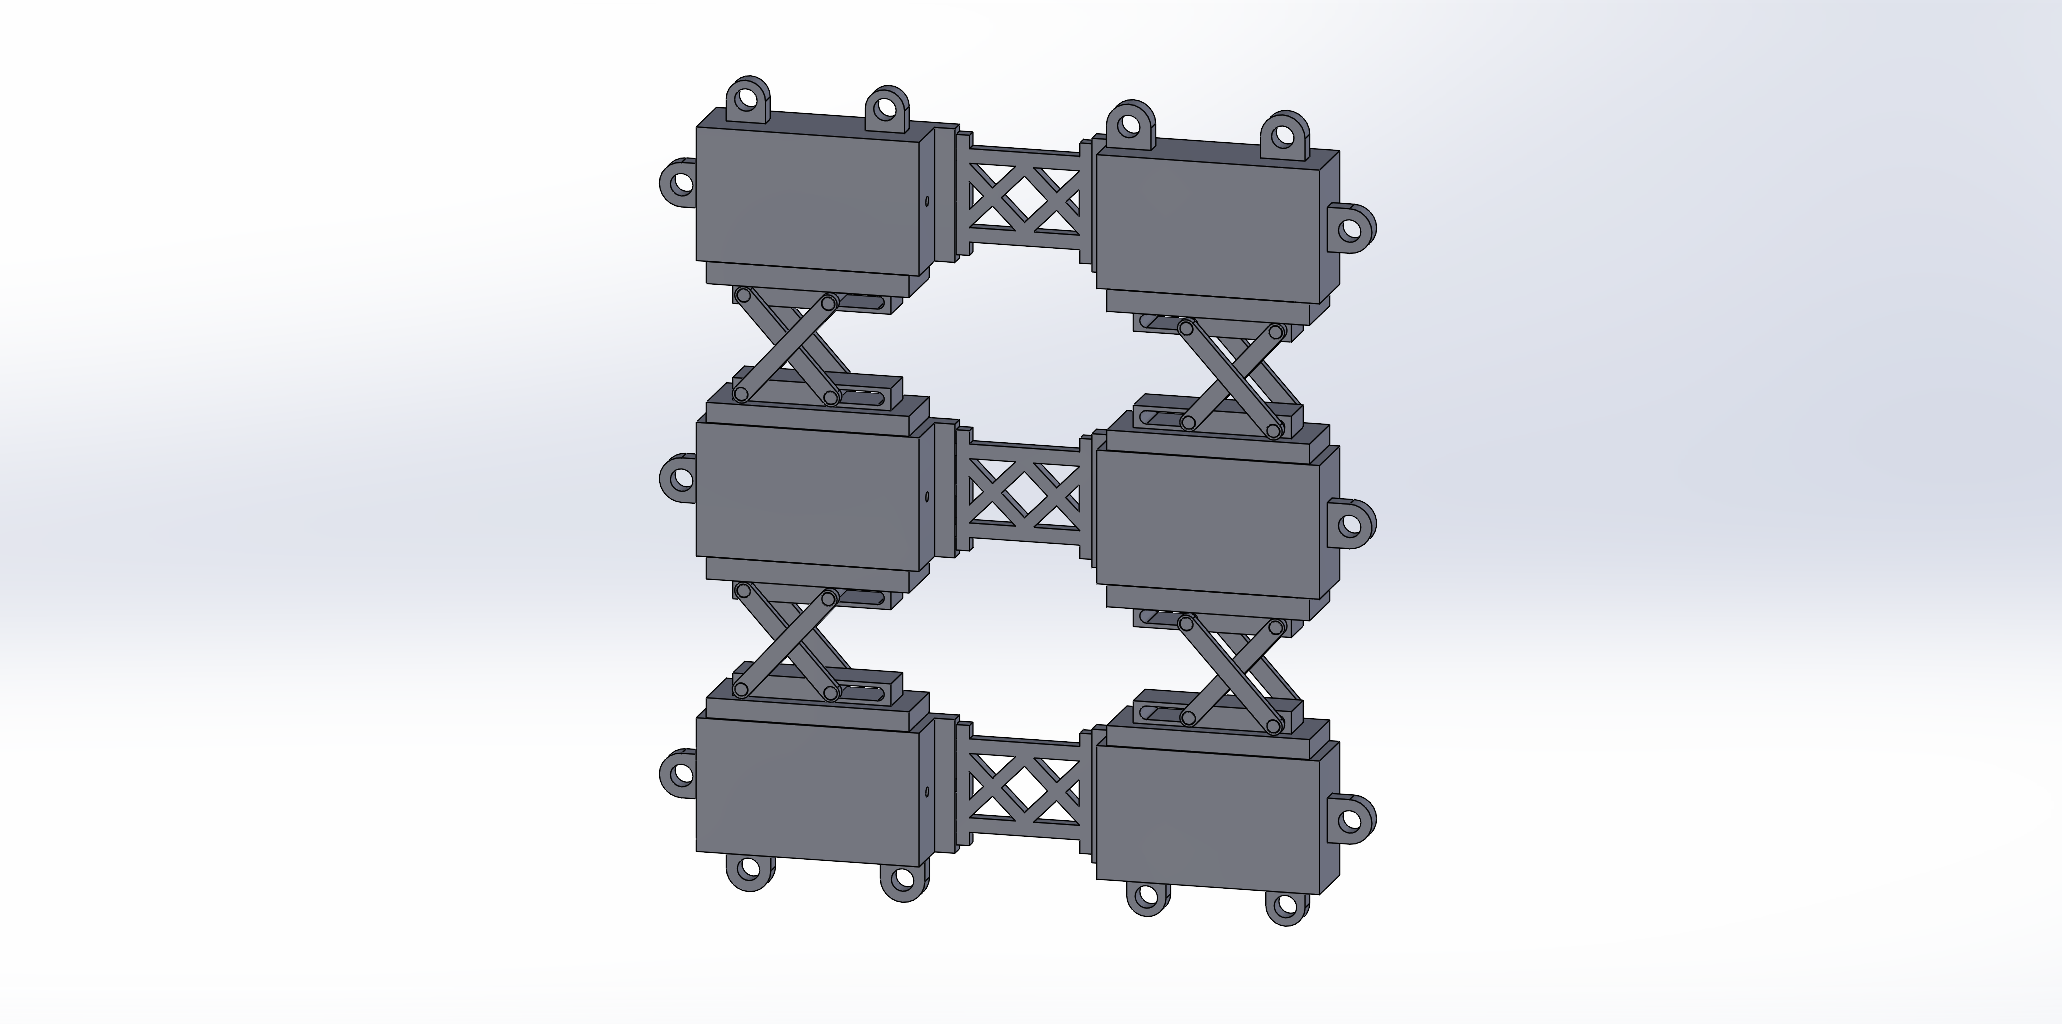
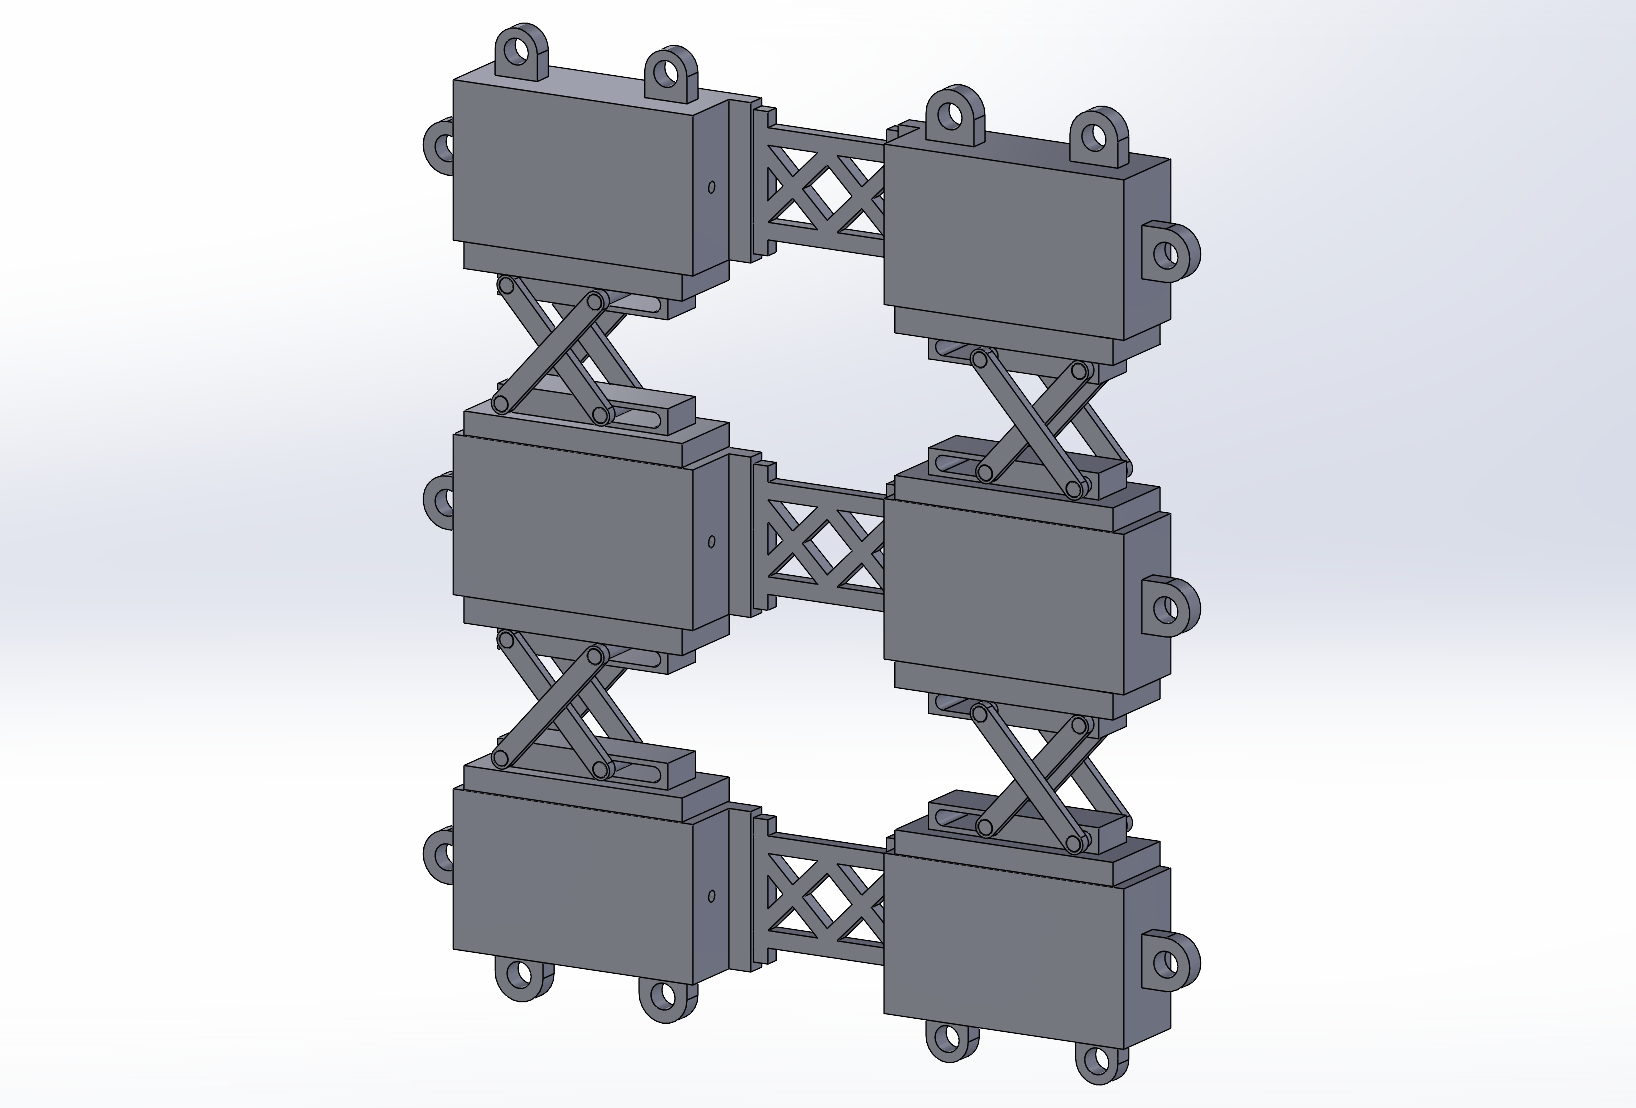
fixed stuff

Changed region(s): [[0.2494, 0.0, 0.7482, 1.0]]

diff --git a/engineering.html b/engineering.html
@@ -90,18 +90,48 @@
       <section class="section">
         <div class="container">
           <h2 class="section-title">Model equations</h2>
-          <ul>
-            <li>Compression: <code>compression = x0 − xf</code></li>
-            <li>Bag area: <code>bagArea = W × H</code></li>
-            <li>Reservoir pressure: <code>P_init = P_atm − P_maxvac</code></li>
-            <li>Length constraint: <code>L0 ≥ (Ln × N) + (x0 × (N − 1))</code></li>
-            <li>Block volume: <code>VB = (W/3) × H × Ln</code>, total <code>VBtotal = 2 × VB × N</code></li>
-            <li>Initial bag air volume: <code>V_bag,init = (L0 × W × H) − VBtotal</code></li>
-            <li>Equilibrium pressure: <code>P_eq = (P_atm × V_bag,init + P_init × VBtotal) / (V_bag,init + VBtotal)</code></li>
-            <li>Gauge pressure and force: <code>P_gauge = P_atm − P_eq</code>, <code>pressureForce = P_gauge × bagArea</code></li>
-            <li>Spring force: <code>springForce = k × compression × 2 × (N − 1)</code></li>
-            <li>Net force and torque: <code>totalForce = pressureForce − springForce</code>, <code>torque = totalForce × r</code></li>
-          </ul>
+          <div class="equations">
+            <div class="eq">
+              <span class="eq-label">Compression</span>
+              <span class="eq-body">Δx = x<sub>0</sub> − x<sub>f</sub></span>
+            </div>
+            <div class="eq">
+              <span class="eq-label">Bag area</span>
+              <span class="eq-body">A = W × H</span>
+            </div>
+            <div class="eq">
+              <span class="eq-label">Reservoir pressure</span>
+              <span class="eq-body">P<sub>init</sub> = P<sub>atm</sub> − P<sub>max vac</sub></span>
+            </div>
+            <div class="eq">
+              <span class="eq-label">Length constraint</span>
+              <span class="eq-body">L<sub>0</sub> ≥ L<sub>n</sub> N + x<sub>0</sub>(N − 1)</span>
+            </div>
+            <div class="eq">
+              <span class="eq-label">Block volume</span>
+              <span class="eq-body">V<sub>B</sub> = <span class="frac"><span>W</span><span>3</span></span> H L<sub>n</sub> &nbsp;&nbsp; V<sub>B,tot</sub> = 2 V<sub>B</sub> N</span>
+            </div>
+            <div class="eq">
+              <span class="eq-label">Initial bag air volume</span>
+              <span class="eq-body">V<sub>bag,init</sub> = L<sub>0</sub> W H − V<sub>B,tot</sub></span>
+            </div>
+            <div class="eq">
+              <span class="eq-label">Equilibrium pressure</span>
+              <span class="eq-body">P<sub>eq</sub> = <span class="frac"><span>P<sub>atm</sub> V<sub>bag,init</sub> + P<sub>init</sub> V<sub>B,tot</sub></span><span>V<sub>bag,init</sub> + V<sub>B,tot</sub></span></span></span>
+            </div>
+            <div class="eq">
+              <span class="eq-label">Gauge pressure and force</span>
+              <span class="eq-body">P<sub>gauge</sub> = P<sub>atm</sub> − P<sub>eq</sub> &nbsp;&nbsp; F<sub>pressure</sub> = P<sub>gauge</sub> A</span>
+            </div>
+            <div class="eq">
+              <span class="eq-label">Spring force</span>
+              <span class="eq-body">F<sub>spring</sub> = k Δx · 2(N − 1)</span>
+            </div>
+            <div class="eq">
+              <span class="eq-label">Net force and torque</span>
+              <span class="eq-body">F<sub>net</sub> = F<sub>pressure</sub> − F<sub>spring</sub> &nbsp;&nbsp; τ = F<sub>net</sub> r</span>
+            </div>
+          </div>
         </div>
       </section>
 

diff --git a/css/styles.css b/css/styles.css
@@ -570,6 +570,71 @@ th {
   margin-bottom: 0;
 }
 
+/* ---------- Equations ---------- */
+
+.equations {
+  display: grid;
+  gap: 10px;
+  margin: 16px 0;
+}
+
+.eq {
+  display: grid;
+  grid-template-columns: minmax(160px, 220px) 1fr;
+  align-items: center;
+  gap: 16px;
+  padding: 12px 16px;
+  background: var(--color-surface);
+  border-left: 3px solid var(--color-primary);
+  border-radius: 6px;
+}
+
+.eq-label {
+  font-size: 0.85rem;
+  font-weight: 600;
+  color: var(--color-muted);
+  text-transform: uppercase;
+  letter-spacing: 0.04em;
+}
+
+.eq-body {
+  font-family: Georgia, "Times New Roman", serif;
+  font-size: 1.1rem;
+  font-style: italic;
+  overflow-x: auto;
+}
+
+.eq-body sub {
+  font-size: 0.7em;
+  vertical-align: -0.25em;
+}
+
+.frac {
+  display: inline-flex;
+  flex-direction: column;
+  align-items: center;
+  vertical-align: middle;
+  font-style: normal;
+  text-align: center;
+  margin: 0 2px;
+}
+
+.frac > span:first-child {
+  border-bottom: 1px solid currentColor;
+  padding: 0 4px;
+}
+
+.frac > span:last-child {
+  padding: 0 4px;
+}
+
+@media (max-width: 600px) {
+  .eq {
+    grid-template-columns: 1fr;
+    gap: 4px;
+  }
+}
+
 /* ---------- Footer ---------- */
 
 .site-footer {

diff --git a/README.md b/README.md
@@ -1,21 +1,34 @@
 # Pneu-Bionics
-This is a website for a senior design project.
+Website for the Pneu-Bionics senior design project: a soft pneumatic exosuit that helps people with mild ambulatory spinal muscular atrophy (SMA) stand up from a chair.
 
 ## Structure
 
 ```
-index.html        Landing page (hero, highlights, call to action)
-about.html        Team page: 5 headshots + 5 bios
-timeline.html     Project timeline with progress bar
+index.html        Home: project motivation, final product image, highlights
+about.html        Team bios, advisor, and sponsors
+concepts.html     Concept designs and why the design changed
+engineering.html  Technical analysis: full actuator, parameters, equations, optimization, control system
+budget.html       Project budget and bill of materials (BOM)
+updates.html      Bi-weekly progress updates (template and sample entries)
+timeline.html     Project timeline, progress bar, and Gantt chart
 css/styles.css    All styles; colors and fonts are CSS variables in :root
-js/main.js        Mobile nav, scroll reveal, timeline progress, form validation
-images/team/      Headshot placeholders (replace with member-1.jpg, etc.)
+js/main.js        Mobile nav, active link, footer year, scroll reveal, timeline progress
+images/team/      Team headshots
+images/concept_designs/  CAD models of the two concepts
+images/diagrams/  Full actuator, electrical diagram, software flowchart
+images/matlab_plots/     MATLAB force plot
+images/gant_chart.png    Project Gantt chart
+images/ai_final_image.png  AI-generated image of the final product
 ```
 
 ## Customizing
 
 - **Colors and fonts:** edit the variables at the top of `css/styles.css`.
-- **Team:** replace the placeholder names, roles, bios, and headshots in `about.html`. Headshots are 200×200 or larger, square crops work best.
-- **Timeline:** edit the milestones in `timeline.html`. Add the `done` class to a `<li class="timeline-item">` once it is complete; the progress bar updates automatically. Use `active` for the current phase.
+- **Team:** edit names, roles, and bios in `about.html`. Headshots are 200×200 or larger; square crops work best. Advisor and sponsor lines are in the "Advisor & Sponsors" section of the same file.
+- **Timeline:** edit the phases in `timeline.html`. Add the `done` class to a `<li class="timeline-item">` once it is complete; the progress bar updates automatically. Use `active` for the current phase.
+- **Updates:** copy one `<article class="update">` block in `updates.html` for each new entry, newest first. Remove the "Sample entries" banner once real entries are added.
+- **Budget and BOM:** fill in the table in `budget.html`. The budget figures are in the two cards above it.
+- **Engineering equations:** each equation is a `<div class="eq">` in `engineering.html`. Subscripts use `<sub>`, and fractions use `<span class="frac">`.
+- **Images:** add new files to the matching `images/` folder and reference them with an `<img>` tag inside a `<figure>` with a `<figcaption>`.
 
 To preview, open `index.html` in a browser. No build step or dependencies are required.
